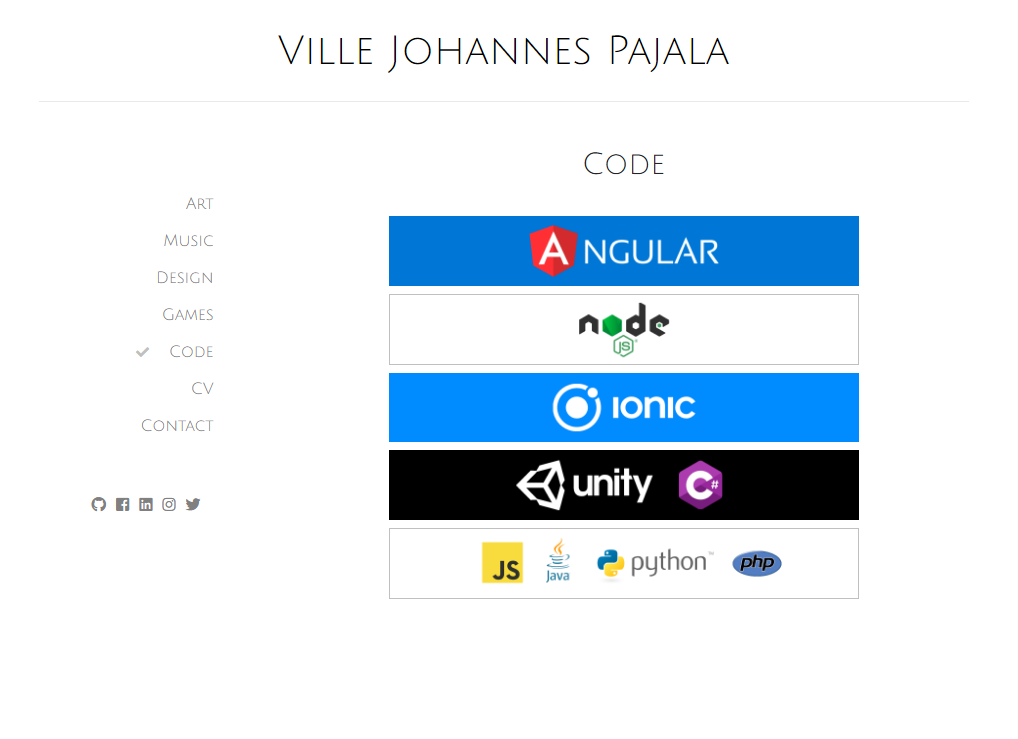
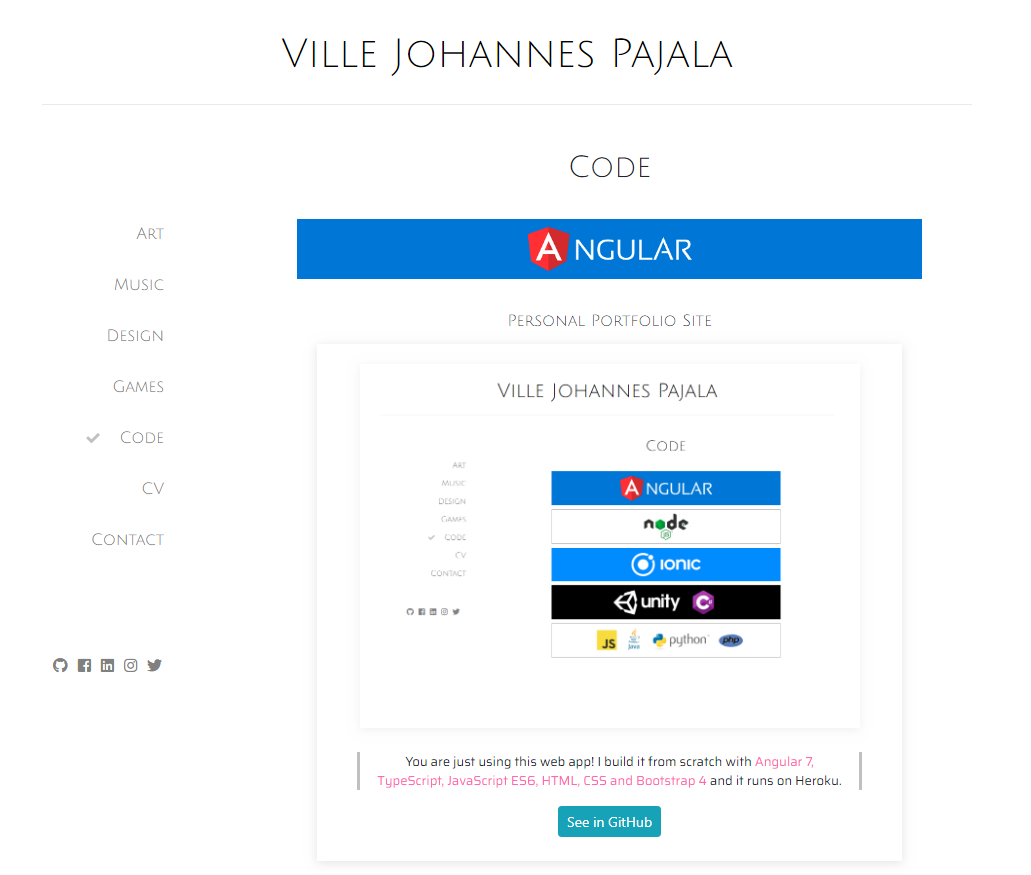
Added a few more portfolio items to developement page

diff --git a/src/app/dev/dev.component.html b/src/app/dev/dev.component.html
@@ -8,13 +8,19 @@
 
     <div class="">
       <div class="mb-2">
-        <img src="assets/img/dev/angular3.png"  data-toggle="collapse" data-target="#collapseOne" class="img-fluid" style="cursor: pointer">
+        <div class="row">
+          <div class="col-12 d-none d-sm-block">
+            <img src="assets/img/dev/angular3.png"  data-toggle="collapse" data-target="#collapseOne" class="img-fluid" style="cursor: pointer">
+          </div>
+          <div class="col-12 d-block d-sm-none">
+            <img src="assets/img/dev/angular2.png"  data-toggle="collapse" data-target="#collapseOne" class="img-fluid" style="cursor: pointer">
+          </div>
+        </div>
       </div>
       <div id="collapseOne" class="collapse" data-parent="#accordion">
         <div class="card-body">
 
           <div id="subAccordion1">
-
             <div class="">
               <div class="">
                 <h6 style="cursor: pointer" data-toggle="collapse" data-target="#collapseNgOne">Personal Portfolio Site</h6>
@@ -68,8 +74,21 @@
                 <h6 style="cursor: pointer" data-toggle="collapse" data-target="#collapseNgThree" class="img-fluid">Debt Calculator</h6>
               </div>
               <div id="collapseNgThree" class="collapse" data-parent="#subAccordion1">
-                <div class="card-body">
-                  <p>Kuvaus Debt Calculatorista</p>
+                <div class="card-body mb-3" id="devItem">
+                  <div class="mb-4">
+                    <img src="assets/img/dev/debtcalculator.png" class="img-fluid" id="dev">
+                  </div>
+
+                  <div id="devText">
+                    <p>Yet another straightforward Angular application. You can save what you owe and to whom and who owns you what. The app calculates 
+                      total sums. Made with<span style="color: hotpink"> Angular 7, 
+                      TypeScript, JavaScript ES6, HTML, CSS and Bootstrap 4</span>.<br><br>
+                      As this was a school project, I only have permission to show the source code in recruitment related cases.</p>
+                  </div>
+                
+                  <div class="col-12 mb-1">
+                    <button style="opacity: 0.6; cursor: not-allowed;" class="btn btn-info btn-sm">See in GitHub</button>
+                  </div>
                 </div>
               </div>
             </div>
@@ -79,12 +98,24 @@
                 <h6 style="cursor: pointer" data-toggle="collapse" data-target="#collapseNgFour" class="img-fluid">BMI Calculator</h6>
               </div>
               <div id="collapseNgFour" class="collapse" data-parent="#subAccordion1">
-                <div class="card-body">
-                  <p>Kuvaus Body Mass Index Calculatorista</p>
+                <div class="card-body mb-3" id="devItem">
+                  <div class="mb-4">
+                    <img src="assets/img/dev/bmicalculator.png" class="img-fluid" id="dev">
+                  </div>
+
+                  <div id="devText">
+                    <p>With this Angular app, you can set your height and width to calculate your body mass index. 
+                      The program also gives you a verbal classification of your weight category. Made with<span style="color: hotpink"> Angular 7, 
+                      TypeScript, JavaScript ES6, HTML, CSS and Bootstrap 4</span>.<br><br>
+                      As this was a school project, I only have permission to show the source code in recruitment related cases.</p>
+                  </div>
+                
+                  <div class="col-12 mb-1">
+                    <button style="opacity: 0.6; cursor: not-allowed;" class="btn btn-info btn-sm">See in GitHub</button>
+                  </div>
                 </div>
               </div>
             </div>
-      
           </div>
             
         </div>
@@ -93,21 +124,73 @@
   
     <div class="">
       <div class="mb-2">
-        <img src="assets/img/dev/nodejs2.png"  data-toggle="collapse" data-target="#collapseTwo" class="img-fluid" id="codeBanner">
+        <div class="row">
+          <div class="col-12 d-none d-sm-block">
+            <img src="assets/img/dev/nodejs2.png"  data-toggle="collapse" data-target="#collapseTwo" class="img-fluid" id="codeBanner">
+          </div>
+          <div class="col-12 d-block d-sm-none">
+            <img src="assets/img/dev/nodejs.png"  data-toggle="collapse" data-target="#collapseTwo" class="img-fluid" id="codeBanner">
+          </div>
+        </div>
       </div>
       <div id="collapseTwo" class="collapse" data-parent="#accordion">
         <div class="card-body">
 
-
           <div id="subAccordion2">
+
+            <div class="">
+              <div class="">
+                <h6 style="cursor: pointer" data-toggle="collapse" data-target="#collapseNodeZero" class="img-fluid">Programmer's Tool Pack</h6>
+              </div>
+              <div id="collapseNodeZero" class="collapse" data-parent="#subAccordion2">
+                <div class="card-body mb-3" id="devItem">
+                  <div class="mb-4">
+                    <img src="assets/img/dev/ptp.png" class="img-fluid" id="dev">
+                  </div>
+
+                  <div id="devText">
+                      <p>User Access Manager is a web app that manages user access rights.</p>
+                        
+                      <p style="text-align: left; margin: 50px;">features:<br><br>
+                      
+                      * The front page shows latest news from TechCrunh<br>
+                      * User can register and / or login to the service<br>
+                      * In Registeration, the new user is saved to the database<br>
+                      * If logged in, user can search TechCrunch news with any search word<br>
+                      * Logged in User can access the tool for listing possible internship organisations<br>
+                      * List data is saved to database for registered user to add, modify and delete his / her data
+                    <p>Made with<span style="color: hotpink"> Nodejs, Express.js, EJS, MySql, JavaScript ES6, HTML, CSS, Bootstrap 4</span>.<br><br>
+                    As this was a school project, I only have permission to show the source code in recruitment related cases.</p>
+                  </div>
+                
+                  <div class="col-12 mb-1">
+                    <a href="https://github.com/VillePajala/programmers-tool-pack-node.js" target="_blank">
+                      <button class="btn btn-info btn-sm">See in GitHub</button>
+                    </a>
+                  </div>
+                </div>
+              </div>
+            </div>
 
             <div class="">
               <div class="">
                 <h6 style="cursor: pointer" data-toggle="collapse" data-target="#collapseNodeOne" class="img-fluid">User Data Manager (REST API)</h6>
               </div>
               <div id="collapseNodeOne" class="collapse" data-parent="#subAccordion2">
-                <div class="card-body">
-                  <p>User Data Manager (REST API)</p>
+                <div class="card-body mb-3" id="devItem">
+                  <div class="mb-4">
+                    <img src="assets/img/dev/restapi.png" class="img-fluid" id="dev">
+                  </div>
+
+                  <div id="devText">
+                    <p>A REST API back-end written for a Angular client to manage user data in a database. Data can be created, read, updated and deleted (CRUD). 
+                      Made with<span style="color: hotpink"> Nodejs, JavaScript ES6, MySQL</span>.<br><br>
+                      As this was a school project, I only have permission to show the source code in recruitment related cases.</p>
+                  </div>
+                
+                  <div class="col-12 mb-1">
+                    <button style="opacity: 0.6; cursor: not-allowed;" class="btn btn-info btn-sm">See in GitHub</button>
+                  </div>
                 </div>
               </div>
             </div>
@@ -117,8 +200,34 @@
                 <h6 style="cursor: pointer" data-toggle="collapse" data-target="#collapseNodeTwo" class="img-fluid">User access Manager</h6>
               </div>
               <div id="collapseNodeTwo" class="collapse" data-parent="#subAccordion2">
-                <div class="card-body">
-                  <p>User access Manager</p>
+                <div class="card-body mb-3" id="devItem">
+                  <div class="mb-4">
+                    <img src="assets/img/dev/useraccessmanager.png" class="img-fluid" id="dev">
+                  </div>
+
+                  <div id="devText">
+                    <p>User Access Manager is a web app that manages user access rights.</p>
+                        
+                        <p style="text-align: left; margin: 50px;">features:<br><br>
+                        
+                        * User can register an username and a password<br>
+                        * After registration the user can log in to the site<br>
+                        * If user chooses, he/she can stay logged (session is remembered for 7 days)<br>
+                        * Username and password are saved to server for future use<br>
+                        * Passwords are automatically crypted (SHA512)<br>
+                        * Password verification is done by comparing SHA512 -hashes (only the registrar can know the actual password)<br>
+                        * After login, the user can use a rich text editor to comment on specific news<br>
+                        * Comments posted under the article<br>
+                        * Data of the comments are saved (the comment, commenter's username, timestamp, id of the commented article and an ID) to server<br>
+                        * User may delete his/her comments<br>
+                        * The news site can be still read without login (commenting requires login) </p>
+                     <p>Made with<span style="color: hotpink"> Nodejs, Express.js, EJS, JavaScript ES6, HTML, CSS, Bootstrap4</span>.<br><br>
+                      As this was a school project, I only have permission to show the source code in recruitment related cases.</p>
+                  </div>
+                
+                  <div class="col-12 mb-1">
+                    <button style="opacity: 0.6; cursor: not-allowed;" class="btn btn-info btn-sm">See in GitHub</button>
+                  </div>
                 </div>
               </div>
             </div>
@@ -188,7 +297,14 @@
   
     <div class="">
       <div class="mb-2">
-        <img src="assets/img/dev/ionic3.png"  data-toggle="collapse" data-target="#collapseThree" class="img-fluid" style="cursor: pointer">
+        <div class="row">
+          <div class="col-12 d-none d-sm-block">
+            <img src="assets/img/dev/ionic3.png"  data-toggle="collapse" data-target="#collapseThree" class="img-fluid" style="cursor: pointer">
+          </div>
+          <div class="col-12 d-block d-sm-none">
+            <img src="assets/img/dev/ionic2.png"  data-toggle="collapse" data-target="#collapseThree" class="img-fluid" style="cursor: pointer">
+          </div>
+        </div>
       </div>
       <div id="collapseThree" class="collapse" data-parent="#accordion">
         <div class="card-body">
@@ -237,7 +353,14 @@
   
     <div class="">
       <div class="mb-2">
-        <img src="assets/img/dev/unity2.png"  data-toggle="collapse" data-target="#collapseFour" class="img-fluid" style="cursor: pointer">
+        <div class="row">
+          <div class="col-12 d-none d-sm-block">
+              <img src="assets/img/dev/unity2.png"  data-toggle="collapse" data-target="#collapseFour" class="img-fluid" style="cursor: pointer">
+          </div>
+          <div class="col-12 d-block d-sm-none">
+              <img src="assets/img/dev/unity.png"  data-toggle="collapse" data-target="#collapseFour" class="img-fluid" style="cursor: pointer">
+          </div>
+        </div>
       </div>
       <div id="collapseFour" class="collapse" data-parent="#accordion">
         <div class="card-body">
@@ -308,7 +431,15 @@
 
     <div class="">
         <div class="mb-2">
-          <img src="assets/img/dev/other2.png"  data-toggle="collapse" data-target="#collapseFive" class="img-fluid" id="codeBanner">
+          <div class="row">
+            <div class="col-12 d-none d-sm-block">
+              <img src="assets/img/dev/other2.png"  data-toggle="collapse" data-target="#collapseFive" class="img-fluid" id="codeBanner">
+            </div>
+            <div class="col-12 d-block d-sm-none">
+              <img src="assets/img/dev/other.png"  data-toggle="collapse" data-target="#collapseFive" class="img-fluid" id="codeBanner">
+            </div>
+          </div>
+          
         </div>
         <div id="collapseFive" class="collapse" data-parent="#accordion">
           <div class="card-body">
@@ -345,16 +476,6 @@
       </div>
     
   </div>
-
-  
-  <!-- <div class="card">
-    <a href="https://github.com/VillePajala" target="_blank">My Public GitHub</a>
-  </div>
-
-  <div class="card">
-    <a href="https://github.com/ovipa017-xamk" target="_blank">My Private GitHub</a>
-  </div> -->
-
 
 </div>
 

diff --git a/src/app/app.component.html b/src/app/app.component.html
@@ -19,7 +19,7 @@
               <span style="font-size: 15px" class="navbar-toggler-icon"></span>
             </button>
             <div class="collapse navbar-collapse" id="collapsibleNavbar">
-              <ul class="navbar-nav">
+              <ul class="navbar-nav"><br>
                 <li class="nav-item" data-toggle="collapse" data-target="#collapsibleNavbar">
                   <a class="nav-link" routerLink="art"><h6>Art</h6></a>
                 </li>
@@ -68,31 +68,31 @@
 
 
 
-          <div style="text-align:right" class="container d-none d-md-block"><br><br>
-            <a routerLink="art" (click)="setActivePage('art')"><h5 class="mt-5"> 
-              <i *ngIf="currentPage == 'art'" class="fas fa-check" id="activePageIcon"></i>Art </h5>
+          <div style="text-align:right; transform: translate(-50px, 0);" class="container d-none d-md-block"><br><br>
+            <a routerLink="art" (click)="setActivePage('art')"><h6 class="mt-5"> 
+              <i *ngIf="currentPage == 'art'" class="fas fa-check" id="activePageIcon"></i>Art </h6>
             </a>     
-            <a routerLink="music" (click)="setActivePage('music')"><h5 class="mt-3"> 
-              <i *ngIf="currentPage == 'music'" class="fas fa-check" id="activePageIcon"></i>Music </h5>
+            <a routerLink="music" (click)="setActivePage('music')"><h6 class="mt-3"> 
+              <i *ngIf="currentPage == 'music'" class="fas fa-check" id="activePageIcon"></i>Music </h6>
             </a>
-            <a routerLink="design" (click)="setActivePage('design')"><h5 class="mt-3"> 
-              <i *ngIf="currentPage == 'design'" class="fas fa-check" id="activePageIcon"></i>Design </h5>
+            <a routerLink="design" (click)="setActivePage('design')"><h6 class="mt-3"> 
+              <i *ngIf="currentPage == 'design'" class="fas fa-check" id="activePageIcon"></i>Design </h6>
             </a>
-            <a routerLink="games" (click)="setActivePage('games')"><h5 class="mt-3"> 
-              <i *ngIf="currentPage == 'games'" class="fas fa-check" id="activePageIcon"></i>Games </h5>
+            <a routerLink="games" (click)="setActivePage('games')"><h6 class="mt-3"> 
+              <i *ngIf="currentPage == 'games'" class="fas fa-check" id="activePageIcon"></i>Games </h6>
             </a>
-            <a routerLink="dev" (click)="setActivePage('dev')"><h5 class="mt-3"> 
-              <i *ngIf="currentPage == 'dev'" class="fas fa-check" id="activePageIcon"></i>Code </h5>
+            <a routerLink="dev" (click)="setActivePage('dev')"><h6 class="mt-3"> 
+              <i *ngIf="currentPage == 'dev'" class="fas fa-check" id="activePageIcon"></i>Code </h6>
             </a>
-            <a routerLink="curriculum" (click)="setActivePage('curriculum')"><h5 class="mt-3"> 
-              <i *ngIf="currentPage == 'curriculum'" class="fas fa-check" id="activePageIcon"></i>CV </h5>
+            <a routerLink="curriculum" (click)="setActivePage('curriculum')"><h6 class="mt-3"> 
+              <i *ngIf="currentPage == 'curriculum'" class="fas fa-check" id="activePageIcon"></i>CV </h6>
             </a>
-            <a routerLink="contact" (click)="setActivePage('contact')"><h5 class="mt-3"> 
-              <i *ngIf="currentPage == 'contact'" class="fas fa-check" id="activePageIcon"></i>Contact </h5>
+            <a routerLink="contact" (click)="setActivePage('contact')"><h6 class="mt-3"> 
+              <i *ngIf="currentPage == 'contact'" class="fas fa-check" id="activePageIcon"></i>Contact </h6>
             </a>         
           </div>  
 
-          <div class="container d-none d-md-block" id="socialMediaButton">
+          <div style="text-align:right; transform: translate(-50px, 0); padding-right: 25px" class="container d-none d-md-block" id="socialMediaButton">
             <br><br><br><br>
             <span id="socialMediaButton">
               <a href="https://github.com/VillePajala" target="_blank"><i class="fab fa-github"></i></a>

diff --git a/src/app/games/games.component.html b/src/app/games/games.component.html
@@ -32,7 +32,7 @@
 
     <div class="">
       <div class="">
-        <img src="assets/img/games/iom.png"  data-toggle="collapse" data-target="#collapseTwo" class="img-fluid" id="music">
+        <img src="assets/img/games/iom2.png"  data-toggle="collapse" data-target="#collapseTwo" class="img-fluid" id="music">
       </div>
       <div id="collapseTwo" class="collapse" data-parent="#accordion">
         <div class="card-body">
@@ -50,7 +50,7 @@
 
     <div class="">
       <div class="">
-        <img src="assets/img/games/apple_hill_kill.jpg"  data-toggle="collapse" data-target="#collapseThree" class="img-fluid" id="music">
+        <img src="assets/img/games/applehillkill.png"  data-toggle="collapse" data-target="#collapseThree" class="img-fluid" id="music">
       </div>
       <div id="collapseThree" class="collapse" data-parent="#accordion">
         <div class="card-body">
@@ -68,7 +68,7 @@
 
     <div class="">
       <div class="">
-        <img src="assets/img/games/agent_amazement.png"  data-toggle="collapse" data-target="#collapseFour" class="img-fluid" id="music">
+        <img src="assets/img/games/agent_amazement2.png"  data-toggle="collapse" data-target="#collapseFour" class="img-fluid" id="music">
       </div>
       <div id="collapseFour" class="collapse" data-parent="#accordion">
         <div class="card-body">

diff --git a/src/styles.css b/src/styles.css
@@ -17,7 +17,7 @@ font-family: 'Saira Semi Condensed', sans-serif;
     padding: 30px;
 }
 #rightColumn {
-    
+    padding-right: 50px;
     min-height: 1200px;
     max-width: 800px;
     margin: auto;
@@ -99,13 +99,13 @@ font-family: 'Saira Semi Condensed', sans-serif;
 /* Nav */
 
 /* Links */
-a h5{
+a h6{
     padding: 8px;
     color:gray;
     text-decoration: none;
     transition: 4s;
 }
-a h5:hover{
+a h6:hover{
     padding: 8px 20px;
     color:black;
     background-color: rgb(245, 245, 245);
